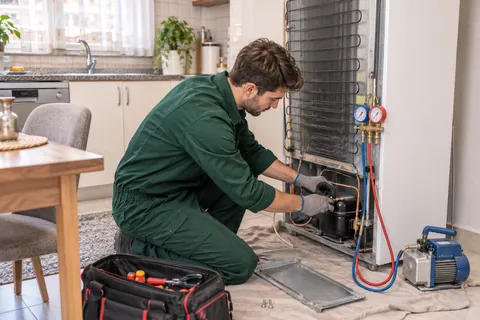
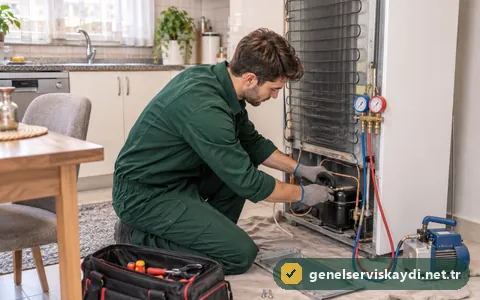
Görsellere logolu filigran, kartlara kurumsal etiket ve renk dokunuşu

diff --git a/index.html b/index.html
@@ -89,7 +89,7 @@ p{margin:0 0 1em}.kap{width:min(1180px,100% - 32px);margin-inline:auto}.dar{widt
 .kurumsal{display:grid;grid-template-columns:.95fr 1.05fr;gap:56px;align-items:center}
 .kurumsal h2{color:var(--yesil)}
 .kur-gorsel{position:relative;border-radius:18px;overflow:visible}
-.kur-gorsel>img,.kur-gorsel>.yt{border-radius:18px;aspect-ratio:4/4.4;object-fit:cover;width:100%;height:auto}
+.kur-gorsel>img{filter:saturate(.9) contrast(1.03)}.kur-gorsel>img,.kur-gorsel>.yt{border-radius:18px;aspect-ratio:4/4.4;object-fit:cover;width:100%;height:auto}
 .kur-gorsel::before{content:"";position:absolute;inset:18px -18px -18px 18px;border:2px solid var(--altin);border-radius:18px;z-index:-1}
 .kur-rozet{position:absolute;left:-14px;bottom:28px;background:var(--yesil);color:#fff;border-radius:12px;padding:14px 16px;display:flex;gap:12px;align-items:center;max-width:290px;box-shadow:var(--sh);font-size:.85rem;color:#cfe1d8}
 .kur-rozet b{display:block;color:#fff;font-size:.98rem}.kur-rozet svg{width:34px;height:34px;color:var(--altin);flex:none}
@@ -105,7 +105,7 @@ p{margin:0 0 1em}.kap{width:min(1180px,100% - 32px);margin-inline:auto}.dar{widt
 .hizmetler{display:grid;grid-template-columns:repeat(3,1fr);gap:22px}
 .hizmet{background:#fff;border-radius:var(--r);overflow:hidden;box-shadow:0 1px 0 var(--line),0 12px 30px -24px rgba(12,59,46,.5);display:flex;flex-direction:column;transition:transform .2s,box-shadow .2s}
 .hizmet:hover{transform:translateY(-3px);box-shadow:var(--sh)}
-.h-foto{position:relative;aspect-ratio:16/10}.h-foto img,.h-foto .yt{width:100%;height:100%;object-fit:cover}
+.h-foto{position:relative;aspect-ratio:16/10;border-bottom:3px solid var(--altin)}.h-foto img,.h-foto .yt{width:100%;height:100%;object-fit:cover}.h-foto img{filter:saturate(.88) contrast(1.04)}.h-foto::after{content:"";position:absolute;inset:0;background:linear-gradient(180deg,rgba(12,59,46,.28) 0,rgba(12,59,46,0) 34%,rgba(12,59,46,0) 62%,rgba(12,59,46,.38) 100%);pointer-events:none}.h-etiket{position:absolute;left:14px;top:14px;z-index:1;background:rgba(12,59,46,.86);color:#fff;font:600 .72rem/1 var(--fh);letter-spacing:.06em;text-transform:uppercase;padding:7px 10px;border-radius:6px;border-left:3px solid var(--altin)}.h-ikon{z-index:1}
 .h-ikon{position:absolute;left:18px;bottom:-22px;width:48px;height:48px;border-radius:12px;background:var(--yesil);color:var(--altin);display:grid;place-items:center;box-shadow:0 0 0 4px #fff}.h-ikon svg{width:24px;height:24px}
 .h-ic{padding:34px 20px 20px;display:flex;flex-direction:column;flex:1}
 .h-ic h3{color:var(--yesil)}.h-ic p{color:var(--ink2);font-size:.95rem;flex:1}
@@ -198,7 +198,7 @@ footer a{color:#d6e6de;text-decoration:none}footer a:hover{color:var(--altin)}
 
 <!-- 2 · KURUMSAL YAPI -->
 <section class="bolum" id="kurumsal" aria-labelledby="h-kur"><div class="kap kurumsal">
-<div class="kur-gorsel"><img src="img/kurumsal-800.webp" srcset="img/kurumsal-800.webp 800w, img/kurumsal-1400.webp 1400w" sizes="(max-width:900px) 92vw, 520px" width="800" height="450" alt="Servis kayıt biriminde talep kaydeden çalışan" loading="lazy" decoding="async"><div class="kur-rozet"><svg viewBox="0 0 24 24" fill="none" stroke="currentColor" stroke-width="1.9" stroke-linecap="round" stroke-linejoin="round" aria-hidden="true"><path d="M12 22s8-4 8-10V5l-8-3-8 3v7c0 6 8 10 8 10z"/><path d="m9 12 2 2 4-4"/></svg><span><b>Kayıtlı süreç</b>Her talep kayıtla başlar, kayıtla kapanır</span></div></div>
+<div class="kur-gorsel"><img src="img/kurumsal-800.webp" srcset="img/kurumsal-800.webp 800w, img/kurumsal-1400.webp 855w" sizes="(max-width:900px) 92vw, 520px" width="800" height="880" alt="Servis kayıt biriminde talep kaydeden çalışan" loading="lazy" decoding="async"><div class="kur-rozet"><svg viewBox="0 0 24 24" fill="none" stroke="currentColor" stroke-width="1.9" stroke-linecap="round" stroke-linejoin="round" aria-hidden="true"><path d="M12 22s8-4 8-10V5l-8-3-8 3v7c0 6 8 10 8 10z"/><path d="m9 12 2 2 4-4"/></svg><span><b>Kayıtlı süreç</b>Her talep kayıtla başlar, kayıtla kapanır</span></div></div>
 <div>
 <span class="etiket koyu">Kurumsal yapımız</span>
 <h2 id="h-kur">Her servis talebi kayıtlı ve planlı ilerler</h2>
@@ -210,7 +210,7 @@ footer a{color:#d6e6de;text-decoration:none}footer a:hover{color:var(--altin)}
 <!-- 3 · HİZMETLER -->
 <section class="bolum acik" id="hizmetler" aria-labelledby="h-hiz"><div class="kap">
 <div class="bas"><span class="etiket koyu">Hizmetlerimiz</span><h2 id="h-hiz">Servis verdiğimiz cihazlar</h2><p>Arıza, bakım ve onarım için tek kayıt.</p></div>
-<div class="hizmetler"><article class="hizmet"><div class="h-foto"><img src="img/buzdolabi-480.webp" srcset="img/buzdolabi-480.webp 480w, img/buzdolabi-800.webp 800w" sizes="(max-width:640px) 92vw, (max-width:1020px) 46vw, 360px" width="480" height="320" alt="Buzdolabı onarımı yapan teknisyen" loading="lazy" decoding="async"><span class="h-ikon"><svg viewBox="0 0 24 24" fill="none" stroke="currentColor" stroke-width="1.9" stroke-linecap="round" stroke-linejoin="round" aria-hidden="true"><rect x="5" y="2" width="14" height="20" rx="2.5"/><path d="M5 9.5h14M8.5 5v2M8.5 12.5v3.5"/></svg></span></div><div class="h-ic"><h3>Buzdolabı Servisi</h3><p>Soğutma kaybı, karlanma, su sızıntısı, fan ve termostat arızaları.</p><a href="#kayit">Servis kaydı oluştur <svg viewBox="0 0 24 24" fill="none" stroke="currentColor" stroke-width="1.9" stroke-linecap="round" stroke-linejoin="round" aria-hidden="true"><path d="M5 12h14M13 6l6 6-6 6"/></svg></a></div></article><article class="hizmet"><div class="h-foto"><img src="img/camasir-480.webp" srcset="img/camasir-480.webp 480w, img/camasir-800.webp 800w" sizes="(max-width:640px) 92vw, (max-width:1020px) 46vw, 360px" width="480" height="320" alt="Çamaşır Makinesi onarımı yapan teknisyen" loading="lazy" decoding="async"><span class="h-ikon"><svg viewBox="0 0 24 24" fill="none" stroke="currentColor" stroke-width="1.9" stroke-linecap="round" stroke-linejoin="round" aria-hidden="true"><rect x="3.5" y="2" width="17" height="20" rx="2.5"/><circle cx="12" cy="13.5" r="5"/><path d="M7 5.5h.01M10 5.5h.01"/></svg></span></div><div class="h-ic"><h3>Çamaşır Makinesi Servisi</h3><p>Su boşaltmama, sıkmama, kapak kilidi, titreşim ve hata uyarıları.</p><a href="#kayit">Servis kaydı oluştur <svg viewBox="0 0 24 24" fill="none" stroke="currentColor" stroke-width="1.9" stroke-linecap="round" stroke-linejoin="round" aria-hidden="true"><path d="M5 12h14M13 6l6 6-6 6"/></svg></a></div></article><article class="hizmet"><div class="h-foto"><img src="img/bulasik-480.webp" srcset="img/bulasik-480.webp 480w, img/bulasik-800.webp 800w" sizes="(max-width:640px) 92vw, (max-width:1020px) 46vw, 360px" width="480" height="270" alt="Bulaşık Makinesi onarımı yapan teknisyen" loading="lazy" decoding="async"><span class="h-ikon"><svg viewBox="0 0 24 24" fill="none" stroke="currentColor" stroke-width="1.9" stroke-linecap="round" stroke-linejoin="round" aria-hidden="true"><rect x="4" y="2" width="16" height="20" rx="2.5"/><path d="M4 7h16M7.5 4.5h.01M8 11h8M8 14.5h8M8 18h8"/></svg></span></div><div class="h-ic"><h3>Bulaşık Makinesi Servisi</h3><p>Temiz yıkamama, su almama, kurutmama ve pompa arızaları.</p><a href="#kayit">Servis kaydı oluştur <svg viewBox="0 0 24 24" fill="none" stroke="currentColor" stroke-width="1.9" stroke-linecap="round" stroke-linejoin="round" aria-hidden="true"><path d="M5 12h14M13 6l6 6-6 6"/></svg></a></div></article><article class="hizmet"><div class="h-foto"><img src="img/firin-480.webp" srcset="img/firin-480.webp 480w, img/firin-800.webp 800w" sizes="(max-width:640px) 92vw, (max-width:1020px) 46vw, 360px" width="480" height="270" alt="Fırın ve Ocak onarımı yapan teknisyen" loading="lazy" decoding="async"><span class="h-ikon"><svg viewBox="0 0 24 24" fill="none" stroke="currentColor" stroke-width="1.9" stroke-linecap="round" stroke-linejoin="round" aria-hidden="true"><rect x="3" y="3" width="18" height="18" rx="2.5"/><path d="M3 8h18M6.5 5.5h.01M10 5.5h.01M7 11.5h10v6H7z"/></svg></span></div><div class="h-ic"><h3>Fırın ve Ocak Servisi</h3><p>Isınmama, rezistans, termostat, fan ve ocak gözü arızaları.</p><a href="#kayit">Servis kaydı oluştur <svg viewBox="0 0 24 24" fill="none" stroke="currentColor" stroke-width="1.9" stroke-linecap="round" stroke-linejoin="round" aria-hidden="true"><path d="M5 12h14M13 6l6 6-6 6"/></svg></a></div></article><article class="hizmet"><div class="h-foto"><img src="img/kombi-480.webp" srcset="img/kombi-480.webp 480w, img/kombi-800.webp 800w" sizes="(max-width:640px) 92vw, (max-width:1020px) 46vw, 360px" width="480" height="320" alt="Kombi onarımı yapan teknisyen" loading="lazy" decoding="async"><span class="h-ikon"><svg viewBox="0 0 24 24" fill="none" stroke="currentColor" stroke-width="1.9" stroke-linecap="round" stroke-linejoin="round" aria-hidden="true"><rect x="5" y="2" width="14" height="15" rx="2.5"/><path d="M9 21v-4M15 21v-4M12 5.5c-1.6 2-2.2 3.2-2.2 4.2a2.2 2.2 0 0 0 4.4 0c0-1-.6-2.2-2.2-4.2z"/></svg></span></div><div class="h-ic"><h3>Kombi Servisi</h3><p>Sıcak su sorunu, basınç düşmesi, arıza kodları ve periyodik bakım.</p><a href="#kayit">Servis kaydı oluştur <svg viewBox="0 0 24 24" fill="none" stroke="currentColor" stroke-width="1.9" stroke-linecap="round" stroke-linejoin="round" aria-hidden="true"><path d="M5 12h14M13 6l6 6-6 6"/></svg></a></div></article><article class="hizmet"><div class="h-foto"><img src="img/klima-480.webp" srcset="img/klima-480.webp 480w, img/klima-800.webp 800w" sizes="(max-width:640px) 92vw, (max-width:1020px) 46vw, 360px" width="480" height="270" alt="Klima onarımı yapan teknisyen" loading="lazy" decoding="async"><span class="h-ikon"><svg viewBox="0 0 24 24" fill="none" stroke="currentColor" stroke-width="1.9" stroke-linecap="round" stroke-linejoin="round" aria-hidden="true"><rect x="2" y="4" width="20" height="8.5" rx="2.5"/><path d="M6 9.5h12M7 16c0 1.5-1 2-1 3.5M12 16v4M17 16c0 1.5 1 2 1 3.5"/></svg></span></div><div class="h-ic"><h3>Klima Servisi</h3><p>Soğutmama, su damlatma, koku, ses ve mevsimlik bakım.</p><a href="#kayit">Servis kaydı oluştur <svg viewBox="0 0 24 24" fill="none" stroke="currentColor" stroke-width="1.9" stroke-linecap="round" stroke-linejoin="round" aria-hidden="true"><path d="M5 12h14M13 6l6 6-6 6"/></svg></a></div></article></div>
+<div class="hizmetler"><article class="hizmet"><div class="h-foto"><img src="img/buzdolabi-480.webp" srcset="img/buzdolabi-480.webp 480w, img/buzdolabi-800.webp 800w" sizes="(max-width:640px) 92vw, (max-width:1020px) 46vw, 360px" width="480" height="300" alt="Buzdolabı onarımı yapan teknisyen" loading="lazy" decoding="async"><span class="h-etiket">Servis kaydı · 01</span><span class="h-ikon"><svg viewBox="0 0 24 24" fill="none" stroke="currentColor" stroke-width="1.9" stroke-linecap="round" stroke-linejoin="round" aria-hidden="true"><rect x="5" y="2" width="14" height="20" rx="2.5"/><path d="M5 9.5h14M8.5 5v2M8.5 12.5v3.5"/></svg></span></div><div class="h-ic"><h3>Buzdolabı Servisi</h3><p>Soğutma kaybı, karlanma, su sızıntısı, fan ve termostat arızaları.</p><a href="#kayit">Servis kaydı oluştur <svg viewBox="0 0 24 24" fill="none" stroke="currentColor" stroke-width="1.9" stroke-linecap="round" stroke-linejoin="round" aria-hidden="true"><path d="M5 12h14M13 6l6 6-6 6"/></svg></a></div></article><article class="hizmet"><div class="h-foto"><img src="img/camasir-480.webp" srcset="img/camasir-480.webp 480w, img/camasir-800.webp 800w" sizes="(max-width:640px) 92vw, (max-width:1020px) 46vw, 360px" width="480" height="300" alt="Çamaşır Makinesi onarımı yapan teknisyen" loading="lazy" decoding="async"><span class="h-etiket">Servis kaydı · 02</span><span class="h-ikon"><svg viewBox="0 0 24 24" fill="none" stroke="currentColor" stroke-width="1.9" stroke-linecap="round" stroke-linejoin="round" aria-hidden="true"><rect x="3.5" y="2" width="17" height="20" rx="2.5"/><circle cx="12" cy="13.5" r="5"/><path d="M7 5.5h.01M10 5.5h.01"/></svg></span></div><div class="h-ic"><h3>Çamaşır Makinesi Servisi</h3><p>Su boşaltmama, sıkmama, kapak kilidi, titreşim ve hata uyarıları.</p><a href="#kayit">Servis kaydı oluştur <svg viewBox="0 0 24 24" fill="none" stroke="currentColor" stroke-width="1.9" stroke-linecap="round" stroke-linejoin="round" aria-hidden="true"><path d="M5 12h14M13 6l6 6-6 6"/></svg></a></div></article><article class="hizmet"><div class="h-foto"><img src="img/bulasik-480.webp" srcset="img/bulasik-480.webp 480w, img/bulasik-800.webp 800w" sizes="(max-width:640px) 92vw, (max-width:1020px) 46vw, 360px" width="480" height="300" alt="Bulaşık Makinesi onarımı yapan teknisyen" loading="lazy" decoding="async"><span class="h-etiket">Servis kaydı · 03</span><span class="h-ikon"><svg viewBox="0 0 24 24" fill="none" stroke="currentColor" stroke-width="1.9" stroke-linecap="round" stroke-linejoin="round" aria-hidden="true"><rect x="4" y="2" width="16" height="20" rx="2.5"/><path d="M4 7h16M7.5 4.5h.01M8 11h8M8 14.5h8M8 18h8"/></svg></span></div><div class="h-ic"><h3>Bulaşık Makinesi Servisi</h3><p>Temiz yıkamama, su almama, kurutmama ve pompa arızaları.</p><a href="#kayit">Servis kaydı oluştur <svg viewBox="0 0 24 24" fill="none" stroke="currentColor" stroke-width="1.9" stroke-linecap="round" stroke-linejoin="round" aria-hidden="true"><path d="M5 12h14M13 6l6 6-6 6"/></svg></a></div></article><article class="hizmet"><div class="h-foto"><img src="img/firin-480.webp" srcset="img/firin-480.webp 480w, img/firin-800.webp 800w" sizes="(max-width:640px) 92vw, (max-width:1020px) 46vw, 360px" width="480" height="300" alt="Fırın ve Ocak onarımı yapan teknisyen" loading="lazy" decoding="async"><span class="h-etiket">Servis kaydı · 04</span><span class="h-ikon"><svg viewBox="0 0 24 24" fill="none" stroke="currentColor" stroke-width="1.9" stroke-linecap="round" stroke-linejoin="round" aria-hidden="true"><rect x="3" y="3" width="18" height="18" rx="2.5"/><path d="M3 8h18M6.5 5.5h.01M10 5.5h.01M7 11.5h10v6H7z"/></svg></span></div><div class="h-ic"><h3>Fırın ve Ocak Servisi</h3><p>Isınmama, rezistans, termostat, fan ve ocak gözü arızaları.</p><a href="#kayit">Servis kaydı oluştur <svg viewBox="0 0 24 24" fill="none" stroke="currentColor" stroke-width="1.9" stroke-linecap="round" stroke-linejoin="round" aria-hidden="true"><path d="M5 12h14M13 6l6 6-6 6"/></svg></a></div></article><article class="hizmet"><div class="h-foto"><img src="img/kombi-480.webp" srcset="img/kombi-480.webp 480w, img/kombi-800.webp 800w" sizes="(max-width:640px) 92vw, (max-width:1020px) 46vw, 360px" width="480" height="300" alt="Kombi onarımı yapan teknisyen" loading="lazy" decoding="async"><span class="h-etiket">Servis kaydı · 05</span><span class="h-ikon"><svg viewBox="0 0 24 24" fill="none" stroke="currentColor" stroke-width="1.9" stroke-linecap="round" stroke-linejoin="round" aria-hidden="true"><rect x="5" y="2" width="14" height="15" rx="2.5"/><path d="M9 21v-4M15 21v-4M12 5.5c-1.6 2-2.2 3.2-2.2 4.2a2.2 2.2 0 0 0 4.4 0c0-1-.6-2.2-2.2-4.2z"/></svg></span></div><div class="h-ic"><h3>Kombi Servisi</h3><p>Sıcak su sorunu, basınç düşmesi, arıza kodları ve periyodik bakım.</p><a href="#kayit">Servis kaydı oluştur <svg viewBox="0 0 24 24" fill="none" stroke="currentColor" stroke-width="1.9" stroke-linecap="round" stroke-linejoin="round" aria-hidden="true"><path d="M5 12h14M13 6l6 6-6 6"/></svg></a></div></article><article class="hizmet"><div class="h-foto"><img src="img/klima-480.webp" srcset="img/klima-480.webp 480w, img/klima-800.webp 800w" sizes="(max-width:640px) 92vw, (max-width:1020px) 46vw, 360px" width="480" height="300" alt="Klima onarımı yapan teknisyen" loading="lazy" decoding="async"><span class="h-etiket">Servis kaydı · 06</span><span class="h-ikon"><svg viewBox="0 0 24 24" fill="none" stroke="currentColor" stroke-width="1.9" stroke-linecap="round" stroke-linejoin="round" aria-hidden="true"><rect x="2" y="4" width="20" height="8.5" rx="2.5"/><path d="M6 9.5h12M7 16c0 1.5-1 2-1 3.5M12 16v4M17 16c0 1.5 1 2 1 3.5"/></svg></span></div><div class="h-ic"><h3>Klima Servisi</h3><p>Soğutmama, su damlatma, koku, ses ve mevsimlik bakım.</p><a href="#kayit">Servis kaydı oluştur <svg viewBox="0 0 24 24" fill="none" stroke="currentColor" stroke-width="1.9" stroke-linecap="round" stroke-linejoin="round" aria-hidden="true"><path d="M5 12h14M13 6l6 6-6 6"/></svg></a></div></article></div>
 </div></section>
 
 <!-- 4 · SERVİS KAYDI SÜRECİ -->

diff --git a/404.html b/404.html
@@ -89,7 +89,7 @@ p{margin:0 0 1em}.kap{width:min(1180px,100% - 32px);margin-inline:auto}.dar{widt
 .kurumsal{display:grid;grid-template-columns:.95fr 1.05fr;gap:56px;align-items:center}
 .kurumsal h2{color:var(--yesil)}
 .kur-gorsel{position:relative;border-radius:18px;overflow:visible}
-.kur-gorsel>img,.kur-gorsel>.yt{border-radius:18px;aspect-ratio:4/4.4;object-fit:cover;width:100%;height:auto}
+.kur-gorsel>img{filter:saturate(.9) contrast(1.03)}.kur-gorsel>img,.kur-gorsel>.yt{border-radius:18px;aspect-ratio:4/4.4;object-fit:cover;width:100%;height:auto}
 .kur-gorsel::before{content:"";position:absolute;inset:18px -18px -18px 18px;border:2px solid var(--altin);border-radius:18px;z-index:-1}
 .kur-rozet{position:absolute;left:-14px;bottom:28px;background:var(--yesil);color:#fff;border-radius:12px;padding:14px 16px;display:flex;gap:12px;align-items:center;max-width:290px;box-shadow:var(--sh);font-size:.85rem;color:#cfe1d8}
 .kur-rozet b{display:block;color:#fff;font-size:.98rem}.kur-rozet svg{width:34px;height:34px;color:var(--altin);flex:none}
@@ -105,7 +105,7 @@ p{margin:0 0 1em}.kap{width:min(1180px,100% - 32px);margin-inline:auto}.dar{widt
 .hizmetler{display:grid;grid-template-columns:repeat(3,1fr);gap:22px}
 .hizmet{background:#fff;border-radius:var(--r);overflow:hidden;box-shadow:0 1px 0 var(--line),0 12px 30px -24px rgba(12,59,46,.5);display:flex;flex-direction:column;transition:transform .2s,box-shadow .2s}
 .hizmet:hover{transform:translateY(-3px);box-shadow:var(--sh)}
-.h-foto{position:relative;aspect-ratio:16/10}.h-foto img,.h-foto .yt{width:100%;height:100%;object-fit:cover}
+.h-foto{position:relative;aspect-ratio:16/10;border-bottom:3px solid var(--altin)}.h-foto img,.h-foto .yt{width:100%;height:100%;object-fit:cover}.h-foto img{filter:saturate(.88) contrast(1.04)}.h-foto::after{content:"";position:absolute;inset:0;background:linear-gradient(180deg,rgba(12,59,46,.28) 0,rgba(12,59,46,0) 34%,rgba(12,59,46,0) 62%,rgba(12,59,46,.38) 100%);pointer-events:none}.h-etiket{position:absolute;left:14px;top:14px;z-index:1;background:rgba(12,59,46,.86);color:#fff;font:600 .72rem/1 var(--fh);letter-spacing:.06em;text-transform:uppercase;padding:7px 10px;border-radius:6px;border-left:3px solid var(--altin)}.h-ikon{z-index:1}
 .h-ikon{position:absolute;left:18px;bottom:-22px;width:48px;height:48px;border-radius:12px;background:var(--yesil);color:var(--altin);display:grid;place-items:center;box-shadow:0 0 0 4px #fff}.h-ikon svg{width:24px;height:24px}
 .h-ic{padding:34px 20px 20px;display:flex;flex-direction:column;flex:1}
 .h-ic h3{color:var(--yesil)}.h-ic p{color:var(--ink2);font-size:.95rem;flex:1}

diff --git a/cerez-politikasi.html b/cerez-politikasi.html
@@ -89,7 +89,7 @@ p{margin:0 0 1em}.kap{width:min(1180px,100% - 32px);margin-inline:auto}.dar{widt
 .kurumsal{display:grid;grid-template-columns:.95fr 1.05fr;gap:56px;align-items:center}
 .kurumsal h2{color:var(--yesil)}
 .kur-gorsel{position:relative;border-radius:18px;overflow:visible}
-.kur-gorsel>img,.kur-gorsel>.yt{border-radius:18px;aspect-ratio:4/4.4;object-fit:cover;width:100%;height:auto}
+.kur-gorsel>img{filter:saturate(.9) contrast(1.03)}.kur-gorsel>img,.kur-gorsel>.yt{border-radius:18px;aspect-ratio:4/4.4;object-fit:cover;width:100%;height:auto}
 .kur-gorsel::before{content:"";position:absolute;inset:18px -18px -18px 18px;border:2px solid var(--altin);border-radius:18px;z-index:-1}
 .kur-rozet{position:absolute;left:-14px;bottom:28px;background:var(--yesil);color:#fff;border-radius:12px;padding:14px 16px;display:flex;gap:12px;align-items:center;max-width:290px;box-shadow:var(--sh);font-size:.85rem;color:#cfe1d8}
 .kur-rozet b{display:block;color:#fff;font-size:.98rem}.kur-rozet svg{width:34px;height:34px;color:var(--altin);flex:none}
@@ -105,7 +105,7 @@ p{margin:0 0 1em}.kap{width:min(1180px,100% - 32px);margin-inline:auto}.dar{widt
 .hizmetler{display:grid;grid-template-columns:repeat(3,1fr);gap:22px}
 .hizmet{background:#fff;border-radius:var(--r);overflow:hidden;box-shadow:0 1px 0 var(--line),0 12px 30px -24px rgba(12,59,46,.5);display:flex;flex-direction:column;transition:transform .2s,box-shadow .2s}
 .hizmet:hover{transform:translateY(-3px);box-shadow:var(--sh)}
-.h-foto{position:relative;aspect-ratio:16/10}.h-foto img,.h-foto .yt{width:100%;height:100%;object-fit:cover}
+.h-foto{position:relative;aspect-ratio:16/10;border-bottom:3px solid var(--altin)}.h-foto img,.h-foto .yt{width:100%;height:100%;object-fit:cover}.h-foto img{filter:saturate(.88) contrast(1.04)}.h-foto::after{content:"";position:absolute;inset:0;background:linear-gradient(180deg,rgba(12,59,46,.28) 0,rgba(12,59,46,0) 34%,rgba(12,59,46,0) 62%,rgba(12,59,46,.38) 100%);pointer-events:none}.h-etiket{position:absolute;left:14px;top:14px;z-index:1;background:rgba(12,59,46,.86);color:#fff;font:600 .72rem/1 var(--fh);letter-spacing:.06em;text-transform:uppercase;padding:7px 10px;border-radius:6px;border-left:3px solid var(--altin)}.h-ikon{z-index:1}
 .h-ikon{position:absolute;left:18px;bottom:-22px;width:48px;height:48px;border-radius:12px;background:var(--yesil);color:var(--altin);display:grid;place-items:center;box-shadow:0 0 0 4px #fff}.h-ikon svg{width:24px;height:24px}
 .h-ic{padding:34px 20px 20px;display:flex;flex-direction:column;flex:1}
 .h-ic h3{color:var(--yesil)}.h-ic p{color:var(--ink2);font-size:.95rem;flex:1}

diff --git a/gizlilik.html b/gizlilik.html
@@ -89,7 +89,7 @@ p{margin:0 0 1em}.kap{width:min(1180px,100% - 32px);margin-inline:auto}.dar{widt
 .kurumsal{display:grid;grid-template-columns:.95fr 1.05fr;gap:56px;align-items:center}
 .kurumsal h2{color:var(--yesil)}
 .kur-gorsel{position:relative;border-radius:18px;overflow:visible}
-.kur-gorsel>img,.kur-gorsel>.yt{border-radius:18px;aspect-ratio:4/4.4;object-fit:cover;width:100%;height:auto}
+.kur-gorsel>img{filter:saturate(.9) contrast(1.03)}.kur-gorsel>img,.kur-gorsel>.yt{border-radius:18px;aspect-ratio:4/4.4;object-fit:cover;width:100%;height:auto}
 .kur-gorsel::before{content:"";position:absolute;inset:18px -18px -18px 18px;border:2px solid var(--altin);border-radius:18px;z-index:-1}
 .kur-rozet{position:absolute;left:-14px;bottom:28px;background:var(--yesil);color:#fff;border-radius:12px;padding:14px 16px;display:flex;gap:12px;align-items:center;max-width:290px;box-shadow:var(--sh);font-size:.85rem;color:#cfe1d8}
 .kur-rozet b{display:block;color:#fff;font-size:.98rem}.kur-rozet svg{width:34px;height:34px;color:var(--altin);flex:none}
@@ -105,7 +105,7 @@ p{margin:0 0 1em}.kap{width:min(1180px,100% - 32px);margin-inline:auto}.dar{widt
 .hizmetler{display:grid;grid-template-columns:repeat(3,1fr);gap:22px}
 .hizmet{background:#fff;border-radius:var(--r);overflow:hidden;box-shadow:0 1px 0 var(--line),0 12px 30px -24px rgba(12,59,46,.5);display:flex;flex-direction:column;transition:transform .2s,box-shadow .2s}
 .hizmet:hover{transform:translateY(-3px);box-shadow:var(--sh)}
-.h-foto{position:relative;aspect-ratio:16/10}.h-foto img,.h-foto .yt{width:100%;height:100%;object-fit:cover}
+.h-foto{position:relative;aspect-ratio:16/10;border-bottom:3px solid var(--altin)}.h-foto img,.h-foto .yt{width:100%;height:100%;object-fit:cover}.h-foto img{filter:saturate(.88) contrast(1.04)}.h-foto::after{content:"";position:absolute;inset:0;background:linear-gradient(180deg,rgba(12,59,46,.28) 0,rgba(12,59,46,0) 34%,rgba(12,59,46,0) 62%,rgba(12,59,46,.38) 100%);pointer-events:none}.h-etiket{position:absolute;left:14px;top:14px;z-index:1;background:rgba(12,59,46,.86);color:#fff;font:600 .72rem/1 var(--fh);letter-spacing:.06em;text-transform:uppercase;padding:7px 10px;border-radius:6px;border-left:3px solid var(--altin)}.h-ikon{z-index:1}
 .h-ikon{position:absolute;left:18px;bottom:-22px;width:48px;height:48px;border-radius:12px;background:var(--yesil);color:var(--altin);display:grid;place-items:center;box-shadow:0 0 0 4px #fff}.h-ikon svg{width:24px;height:24px}
 .h-ic{padding:34px 20px 20px;display:flex;flex-direction:column;flex:1}
 .h-ic h3{color:var(--yesil)}.h-ic p{color:var(--ink2);font-size:.95rem;flex:1}

diff --git a/hakkimizda.html b/hakkimizda.html
@@ -89,7 +89,7 @@ p{margin:0 0 1em}.kap{width:min(1180px,100% - 32px);margin-inline:auto}.dar{widt
 .kurumsal{display:grid;grid-template-columns:.95fr 1.05fr;gap:56px;align-items:center}
 .kurumsal h2{color:var(--yesil)}
 .kur-gorsel{position:relative;border-radius:18px;overflow:visible}
-.kur-gorsel>img,.kur-gorsel>.yt{border-radius:18px;aspect-ratio:4/4.4;object-fit:cover;width:100%;height:auto}
+.kur-gorsel>img{filter:saturate(.9) contrast(1.03)}.kur-gorsel>img,.kur-gorsel>.yt{border-radius:18px;aspect-ratio:4/4.4;object-fit:cover;width:100%;height:auto}
 .kur-gorsel::before{content:"";position:absolute;inset:18px -18px -18px 18px;border:2px solid var(--altin);border-radius:18px;z-index:-1}
 .kur-rozet{position:absolute;left:-14px;bottom:28px;background:var(--yesil);color:#fff;border-radius:12px;padding:14px 16px;display:flex;gap:12px;align-items:center;max-width:290px;box-shadow:var(--sh);font-size:.85rem;color:#cfe1d8}
 .kur-rozet b{display:block;color:#fff;font-size:.98rem}.kur-rozet svg{width:34px;height:34px;color:var(--altin);flex:none}
@@ -105,7 +105,7 @@ p{margin:0 0 1em}.kap{width:min(1180px,100% - 32px);margin-inline:auto}.dar{widt
 .hizmetler{display:grid;grid-template-columns:repeat(3,1fr);gap:22px}
 .hizmet{background:#fff;border-radius:var(--r);overflow:hidden;box-shadow:0 1px 0 var(--line),0 12px 30px -24px rgba(12,59,46,.5);display:flex;flex-direction:column;transition:transform .2s,box-shadow .2s}
 .hizmet:hover{transform:translateY(-3px);box-shadow:var(--sh)}
-.h-foto{position:relative;aspect-ratio:16/10}.h-foto img,.h-foto .yt{width:100%;height:100%;object-fit:cover}
+.h-foto{position:relative;aspect-ratio:16/10;border-bottom:3px solid var(--altin)}.h-foto img,.h-foto .yt{width:100%;height:100%;object-fit:cover}.h-foto img{filter:saturate(.88) contrast(1.04)}.h-foto::after{content:"";position:absolute;inset:0;background:linear-gradient(180deg,rgba(12,59,46,.28) 0,rgba(12,59,46,0) 34%,rgba(12,59,46,0) 62%,rgba(12,59,46,.38) 100%);pointer-events:none}.h-etiket{position:absolute;left:14px;top:14px;z-index:1;background:rgba(12,59,46,.86);color:#fff;font:600 .72rem/1 var(--fh);letter-spacing:.06em;text-transform:uppercase;padding:7px 10px;border-radius:6px;border-left:3px solid var(--altin)}.h-ikon{z-index:1}
 .h-ikon{position:absolute;left:18px;bottom:-22px;width:48px;height:48px;border-radius:12px;background:var(--yesil);color:var(--altin);display:grid;place-items:center;box-shadow:0 0 0 4px #fff}.h-ikon svg{width:24px;height:24px}
 .h-ic{padding:34px 20px 20px;display:flex;flex-direction:column;flex:1}
 .h-ic h3{color:var(--yesil)}.h-ic p{color:var(--ink2);font-size:.95rem;flex:1}

diff --git a/hizmet-kosullari.html b/hizmet-kosullari.html
@@ -89,7 +89,7 @@ p{margin:0 0 1em}.kap{width:min(1180px,100% - 32px);margin-inline:auto}.dar{widt
 .kurumsal{display:grid;grid-template-columns:.95fr 1.05fr;gap:56px;align-items:center}
 .kurumsal h2{color:var(--yesil)}
 .kur-gorsel{position:relative;border-radius:18px;overflow:visible}
-.kur-gorsel>img,.kur-gorsel>.yt{border-radius:18px;aspect-ratio:4/4.4;object-fit:cover;width:100%;height:auto}
+.kur-gorsel>img{filter:saturate(.9) contrast(1.03)}.kur-gorsel>img,.kur-gorsel>.yt{border-radius:18px;aspect-ratio:4/4.4;object-fit:cover;width:100%;height:auto}
 .kur-gorsel::before{content:"";position:absolute;inset:18px -18px -18px 18px;border:2px solid var(--altin);border-radius:18px;z-index:-1}
 .kur-rozet{position:absolute;left:-14px;bottom:28px;background:var(--yesil);color:#fff;border-radius:12px;padding:14px 16px;display:flex;gap:12px;align-items:center;max-width:290px;box-shadow:var(--sh);font-size:.85rem;color:#cfe1d8}
 .kur-rozet b{display:block;color:#fff;font-size:.98rem}.kur-rozet svg{width:34px;height:34px;color:var(--altin);flex:none}
@@ -105,7 +105,7 @@ p{margin:0 0 1em}.kap{width:min(1180px,100% - 32px);margin-inline:auto}.dar{widt
 .hizmetler{display:grid;grid-template-columns:repeat(3,1fr);gap:22px}
 .hizmet{background:#fff;border-radius:var(--r);overflow:hidden;box-shadow:0 1px 0 var(--line),0 12px 30px -24px rgba(12,59,46,.5);display:flex;flex-direction:column;transition:transform .2s,box-shadow .2s}
 .hizmet:hover{transform:translateY(-3px);box-shadow:var(--sh)}
-.h-foto{position:relative;aspect-ratio:16/10}.h-foto img,.h-foto .yt{width:100%;height:100%;object-fit:cover}
+.h-foto{position:relative;aspect-ratio:16/10;border-bottom:3px solid var(--altin)}.h-foto img,.h-foto .yt{width:100%;height:100%;object-fit:cover}.h-foto img{filter:saturate(.88) contrast(1.04)}.h-foto::after{content:"";position:absolute;inset:0;background:linear-gradient(180deg,rgba(12,59,46,.28) 0,rgba(12,59,46,0) 34%,rgba(12,59,46,0) 62%,rgba(12,59,46,.38) 100%);pointer-events:none}.h-etiket{position:absolute;left:14px;top:14px;z-index:1;background:rgba(12,59,46,.86);color:#fff;font:600 .72rem/1 var(--fh);letter-spacing:.06em;text-transform:uppercase;padding:7px 10px;border-radius:6px;border-left:3px solid var(--altin)}.h-ikon{z-index:1}
 .h-ikon{position:absolute;left:18px;bottom:-22px;width:48px;height:48px;border-radius:12px;background:var(--yesil);color:var(--altin);display:grid;place-items:center;box-shadow:0 0 0 4px #fff}.h-ikon svg{width:24px;height:24px}
 .h-ic{padding:34px 20px 20px;display:flex;flex-direction:column;flex:1}
 .h-ic h3{color:var(--yesil)}.h-ic p{color:var(--ink2);font-size:.95rem;flex:1}

diff --git a/iletisim.html b/iletisim.html
@@ -89,7 +89,7 @@ p{margin:0 0 1em}.kap{width:min(1180px,100% - 32px);margin-inline:auto}.dar{widt
 .kurumsal{display:grid;grid-template-columns:.95fr 1.05fr;gap:56px;align-items:center}
 .kurumsal h2{color:var(--yesil)}
 .kur-gorsel{position:relative;border-radius:18px;overflow:visible}
-.kur-gorsel>img,.kur-gorsel>.yt{border-radius:18px;aspect-ratio:4/4.4;object-fit:cover;width:100%;height:auto}
+.kur-gorsel>img{filter:saturate(.9) contrast(1.03)}.kur-gorsel>img,.kur-gorsel>.yt{border-radius:18px;aspect-ratio:4/4.4;object-fit:cover;width:100%;height:auto}
 .kur-gorsel::before{content:"";position:absolute;inset:18px -18px -18px 18px;border:2px solid var(--altin);border-radius:18px;z-index:-1}
 .kur-rozet{position:absolute;left:-14px;bottom:28px;background:var(--yesil);color:#fff;border-radius:12px;padding:14px 16px;display:flex;gap:12px;align-items:center;max-width:290px;box-shadow:var(--sh);font-size:.85rem;color:#cfe1d8}
 .kur-rozet b{display:block;color:#fff;font-size:.98rem}.kur-rozet svg{width:34px;height:34px;color:var(--altin);flex:none}
@@ -105,7 +105,7 @@ p{margin:0 0 1em}.kap{width:min(1180px,100% - 32px);margin-inline:auto}.dar{widt
 .hizmetler{display:grid;grid-template-columns:repeat(3,1fr);gap:22px}
 .hizmet{background:#fff;border-radius:var(--r);overflow:hidden;box-shadow:0 1px 0 var(--line),0 12px 30px -24px rgba(12,59,46,.5);display:flex;flex-direction:column;transition:transform .2s,box-shadow .2s}
 .hizmet:hover{transform:translateY(-3px);box-shadow:var(--sh)}
-.h-foto{position:relative;aspect-ratio:16/10}.h-foto img,.h-foto .yt{width:100%;height:100%;object-fit:cover}
+.h-foto{position:relative;aspect-ratio:16/10;border-bottom:3px solid var(--altin)}.h-foto img,.h-foto .yt{width:100%;height:100%;object-fit:cover}.h-foto img{filter:saturate(.88) contrast(1.04)}.h-foto::after{content:"";position:absolute;inset:0;background:linear-gradient(180deg,rgba(12,59,46,.28) 0,rgba(12,59,46,0) 34%,rgba(12,59,46,0) 62%,rgba(12,59,46,.38) 100%);pointer-events:none}.h-etiket{position:absolute;left:14px;top:14px;z-index:1;background:rgba(12,59,46,.86);color:#fff;font:600 .72rem/1 var(--fh);letter-spacing:.06em;text-transform:uppercase;padding:7px 10px;border-radius:6px;border-left:3px solid var(--altin)}.h-ikon{z-index:1}
 .h-ikon{position:absolute;left:18px;bottom:-22px;width:48px;height:48px;border-radius:12px;background:var(--yesil);color:var(--altin);display:grid;place-items:center;box-shadow:0 0 0 4px #fff}.h-ikon svg{width:24px;height:24px}
 .h-ic{padding:34px 20px 20px;display:flex;flex-direction:column;flex:1}
 .h-ic h3{color:var(--yesil)}.h-ic p{color:var(--ink2);font-size:.95rem;flex:1}

diff --git a/_kaynak/stil.css b/_kaynak/stil.css
@@ -74,7 +74,7 @@ p{margin:0 0 1em}.kap{width:min(1180px,100% - 32px);margin-inline:auto}.dar{widt
 .kurumsal{display:grid;grid-template-columns:.95fr 1.05fr;gap:56px;align-items:center}
 .kurumsal h2{color:var(--yesil)}
 .kur-gorsel{position:relative;border-radius:18px;overflow:visible}
-.kur-gorsel>img,.kur-gorsel>.yt{border-radius:18px;aspect-ratio:4/4.4;object-fit:cover;width:100%;height:auto}
+.kur-gorsel>img{filter:saturate(.9) contrast(1.03)}.kur-gorsel>img,.kur-gorsel>.yt{border-radius:18px;aspect-ratio:4/4.4;object-fit:cover;width:100%;height:auto}
 .kur-gorsel::before{content:"";position:absolute;inset:18px -18px -18px 18px;border:2px solid var(--altin);border-radius:18px;z-index:-1}
 .kur-rozet{position:absolute;left:-14px;bottom:28px;background:var(--yesil);color:#fff;border-radius:12px;padding:14px 16px;display:flex;gap:12px;align-items:center;max-width:290px;box-shadow:var(--sh);font-size:.85rem;color:#cfe1d8}
 .kur-rozet b{display:block;color:#fff;font-size:.98rem}.kur-rozet svg{width:34px;height:34px;color:var(--altin);flex:none}
@@ -90,7 +90,7 @@ p{margin:0 0 1em}.kap{width:min(1180px,100% - 32px);margin-inline:auto}.dar{widt
 .hizmetler{display:grid;grid-template-columns:repeat(3,1fr);gap:22px}
 .hizmet{background:#fff;border-radius:var(--r);overflow:hidden;box-shadow:0 1px 0 var(--line),0 12px 30px -24px rgba(12,59,46,.5);display:flex;flex-direction:column;transition:transform .2s,box-shadow .2s}
 .hizmet:hover{transform:translateY(-3px);box-shadow:var(--sh)}
-.h-foto{position:relative;aspect-ratio:16/10}.h-foto img,.h-foto .yt{width:100%;height:100%;object-fit:cover}
+.h-foto{position:relative;aspect-ratio:16/10;border-bottom:3px solid var(--altin)}.h-foto img,.h-foto .yt{width:100%;height:100%;object-fit:cover}.h-foto img{filter:saturate(.88) contrast(1.04)}.h-foto::after{content:"";position:absolute;inset:0;background:linear-gradient(180deg,rgba(12,59,46,.28) 0,rgba(12,59,46,0) 34%,rgba(12,59,46,0) 62%,rgba(12,59,46,.38) 100%);pointer-events:none}.h-etiket{position:absolute;left:14px;top:14px;z-index:1;background:rgba(12,59,46,.86);color:#fff;font:600 .72rem/1 var(--fh);letter-spacing:.06em;text-transform:uppercase;padding:7px 10px;border-radius:6px;border-left:3px solid var(--altin)}.h-ikon{z-index:1}
 .h-ikon{position:absolute;left:18px;bottom:-22px;width:48px;height:48px;border-radius:12px;background:var(--yesil);color:var(--altin);display:grid;place-items:center;box-shadow:0 0 0 4px #fff}.h-ikon svg{width:24px;height:24px}
 .h-ic{padding:34px 20px 20px;display:flex;flex-direction:column;flex:1}
 .h-ic h3{color:var(--yesil)}.h-ic p{color:var(--ink2);font-size:.95rem;flex:1}

diff --git a/_kaynak/build.py b/_kaynak/build.py
@@ -57,6 +57,39 @@ def ik(ad):
 GORSEL = {}
 
 
+FILIGRANSIZ = ("hero",)  # hero arka planda koyu katmanın altında; filigran eklenmez
+
+
+def filigran(im):
+    """Sağ alt köşeye yarı saydam logo + alan adı (kurumsal damga)."""
+    from PIL import Image, ImageDraw, ImageFont
+    im = im.convert("RGBA")
+    w, h = im.size
+    boy = max(14, round(w * 0.022))
+    font = None
+    for yol in ("C:/Windows/Fonts/segoeuib.ttf", "C:/Windows/Fonts/arialbd.ttf"):
+        if os.path.exists(yol):
+            font = ImageFont.truetype(yol, boy)
+            break
+    font = font or ImageFont.load_default()
+    yazi = C.ALAN.split("//")[-1].strip("/")
+    kat = Image.new("RGBA", im.size, (0, 0, 0, 0))
+    d = ImageDraw.Draw(kat)
+    tw = d.textlength(yazi, font=font)
+    ikon = round(boy * 1.45)
+    pad = round(boy * 0.6)
+    kw, kh = round(ikon + pad * 3 + tw), round(ikon + pad * 1.4)
+    m = round(w * 0.022)
+    x0, y0 = w - kw - m, h - kh - m
+    d.rounded_rectangle((x0, y0, x0 + kw, y0 + kh), radius=kh // 2, fill=(12, 59, 46, 150))
+    ix, iy = x0 + pad, y0 + (kh - ikon) // 2
+    d.rounded_rectangle((ix, iy, ix + ikon, iy + ikon), radius=round(ikon * 0.28), fill=(224, 177, 58, 235))
+    c = ikon / 32
+    d.line([(ix + 9 * c, iy + 16.5 * c), (ix + 14 * c, iy + 21.5 * c), (ix + 23 * c, iy + 11 * c)], fill=(12, 59, 46, 255), width=max(2, round(3.2 * c)), joint="curve")
+    d.text((ix + ikon + pad, y0 + kh / 2), yazi, font=font, fill=(255, 255, 255, 225), anchor="lm")
+    return Image.alpha_composite(im, kat).convert("RGB")
+
+
 def gorselleri_hazirla():
     kaynak = os.path.join(KAYNAK, "gorsel")
     hazir = {}
@@ -73,6 +106,12 @@ def gorselleri_hazirla():
         if uz.lower() not in (".jpg", ".jpeg", ".png", ".webp"):
             continue
         im = Image.open(os.path.join(kaynak, dosya)).convert("RGB")
+        oran = {"hero": None, "og-kapak": None, "kurumsal": 4 / 4.4}.get(ad, 16 / 10)  # CSS kutu oranı: filigran kırpılmasın
+        if oran:
+            if im.width / im.height > oran:
+                yw = round(im.height * oran); x = (im.width - yw) // 2; im = im.crop((x, 0, x + yw, im.height))
+            else:
+                yh = round(im.width / oran); y = (im.height - yh) // 2; im = im.crop((0, y, im.width, y + yh))
         genislikler = [800, 1400] if ad in ("hero", "og-kapak", "kurumsal") else [480, 800]
         boy = []
         for g in genislikler:
@@ -80,7 +119,8 @@ def gorselleri_hazirla():
             h2 = round(im.height * g2 / im.width)
             hedef = os.path.join(KOK, "img", f"{ad}-{g}.webp")
             if not os.path.exists(hedef) or os.path.getmtime(hedef) < os.path.getmtime(os.path.join(kaynak, dosya)):
-                im.resize((g2, h2), Image.LANCZOS).save(hedef, "WEBP", quality=80, method=6)
+                kucuk = im.resize((g2, h2), Image.LANCZOS)
+                (kucuk if ad in FILIGRANSIZ else filigran(kucuk)).save(hedef, "WEBP", quality=80, method=6)
             boy.append((g, g2, h2))
         hazir[ad] = boy
     return hazir
@@ -233,10 +273,10 @@ def ana_sayfa():
     yapi = "".join(f'<li><span class="y-no">{i:02d}</span><div><h3>{ik(k)}{e(b)}</h3><p>{e(m)}</p></div></li>' for i, (k, b, m) in enumerate(C.YAPI, 1))
     hizmet = "".join(
         f'<article class="hizmet"><div class="h-foto">{resim(g, b + " onarımı yapan teknisyen", "(max-width:640px) 92vw, (max-width:1020px) 46vw, 360px") or yer_tutucu(k, b)}'
-        f'<span class="h-ikon">{ik(k)}</span></div>'
+        f'<span class="h-etiket">Servis kaydı · {i:02d}</span><span class="h-ikon">{ik(k)}</span></div>'
         f'<div class="h-ic"><h3>{e(b)} Servisi</h3><p>{e(m)}</p>'
         + (f'<a href="{wa("Merhaba, " + b.lower() + " için servis kaydı oluşturmak istiyorum.")}" target="_blank" rel="noopener" data-olay="whatsapp_tiklama" data-konum="hizmet">Servis kaydı oluştur {ik("ok")}</a>' if WA_NO else f'<a href="#kayit">Servis kaydı oluştur {ik("ok")}</a>')
-        + '</div></article>' for k, b, m, g in C.CIHAZLAR)
+        + '</div></article>' for i, (k, b, m, g) in enumerate(C.CIHAZLAR, 1))
     adim = "".join(f'<li><span class="a-no">{i}</span><h3>{e(b)}</h3><p>{e(m)}</p></li>' for i, (b, m) in enumerate(C.ADIMLAR, 1))
     ilke = "".join(f'<div class="ilke">{ik(k)}<div><h3>{e(b)}</h3><p>{e(m)}</p></div></div>' for k, b, m in C.ILKELER)
     rehber = "".join(f'<details><summary>{e(b)}</summary><p>{e(m)}</p></details>' for b, m in C.BELIRTILER)
